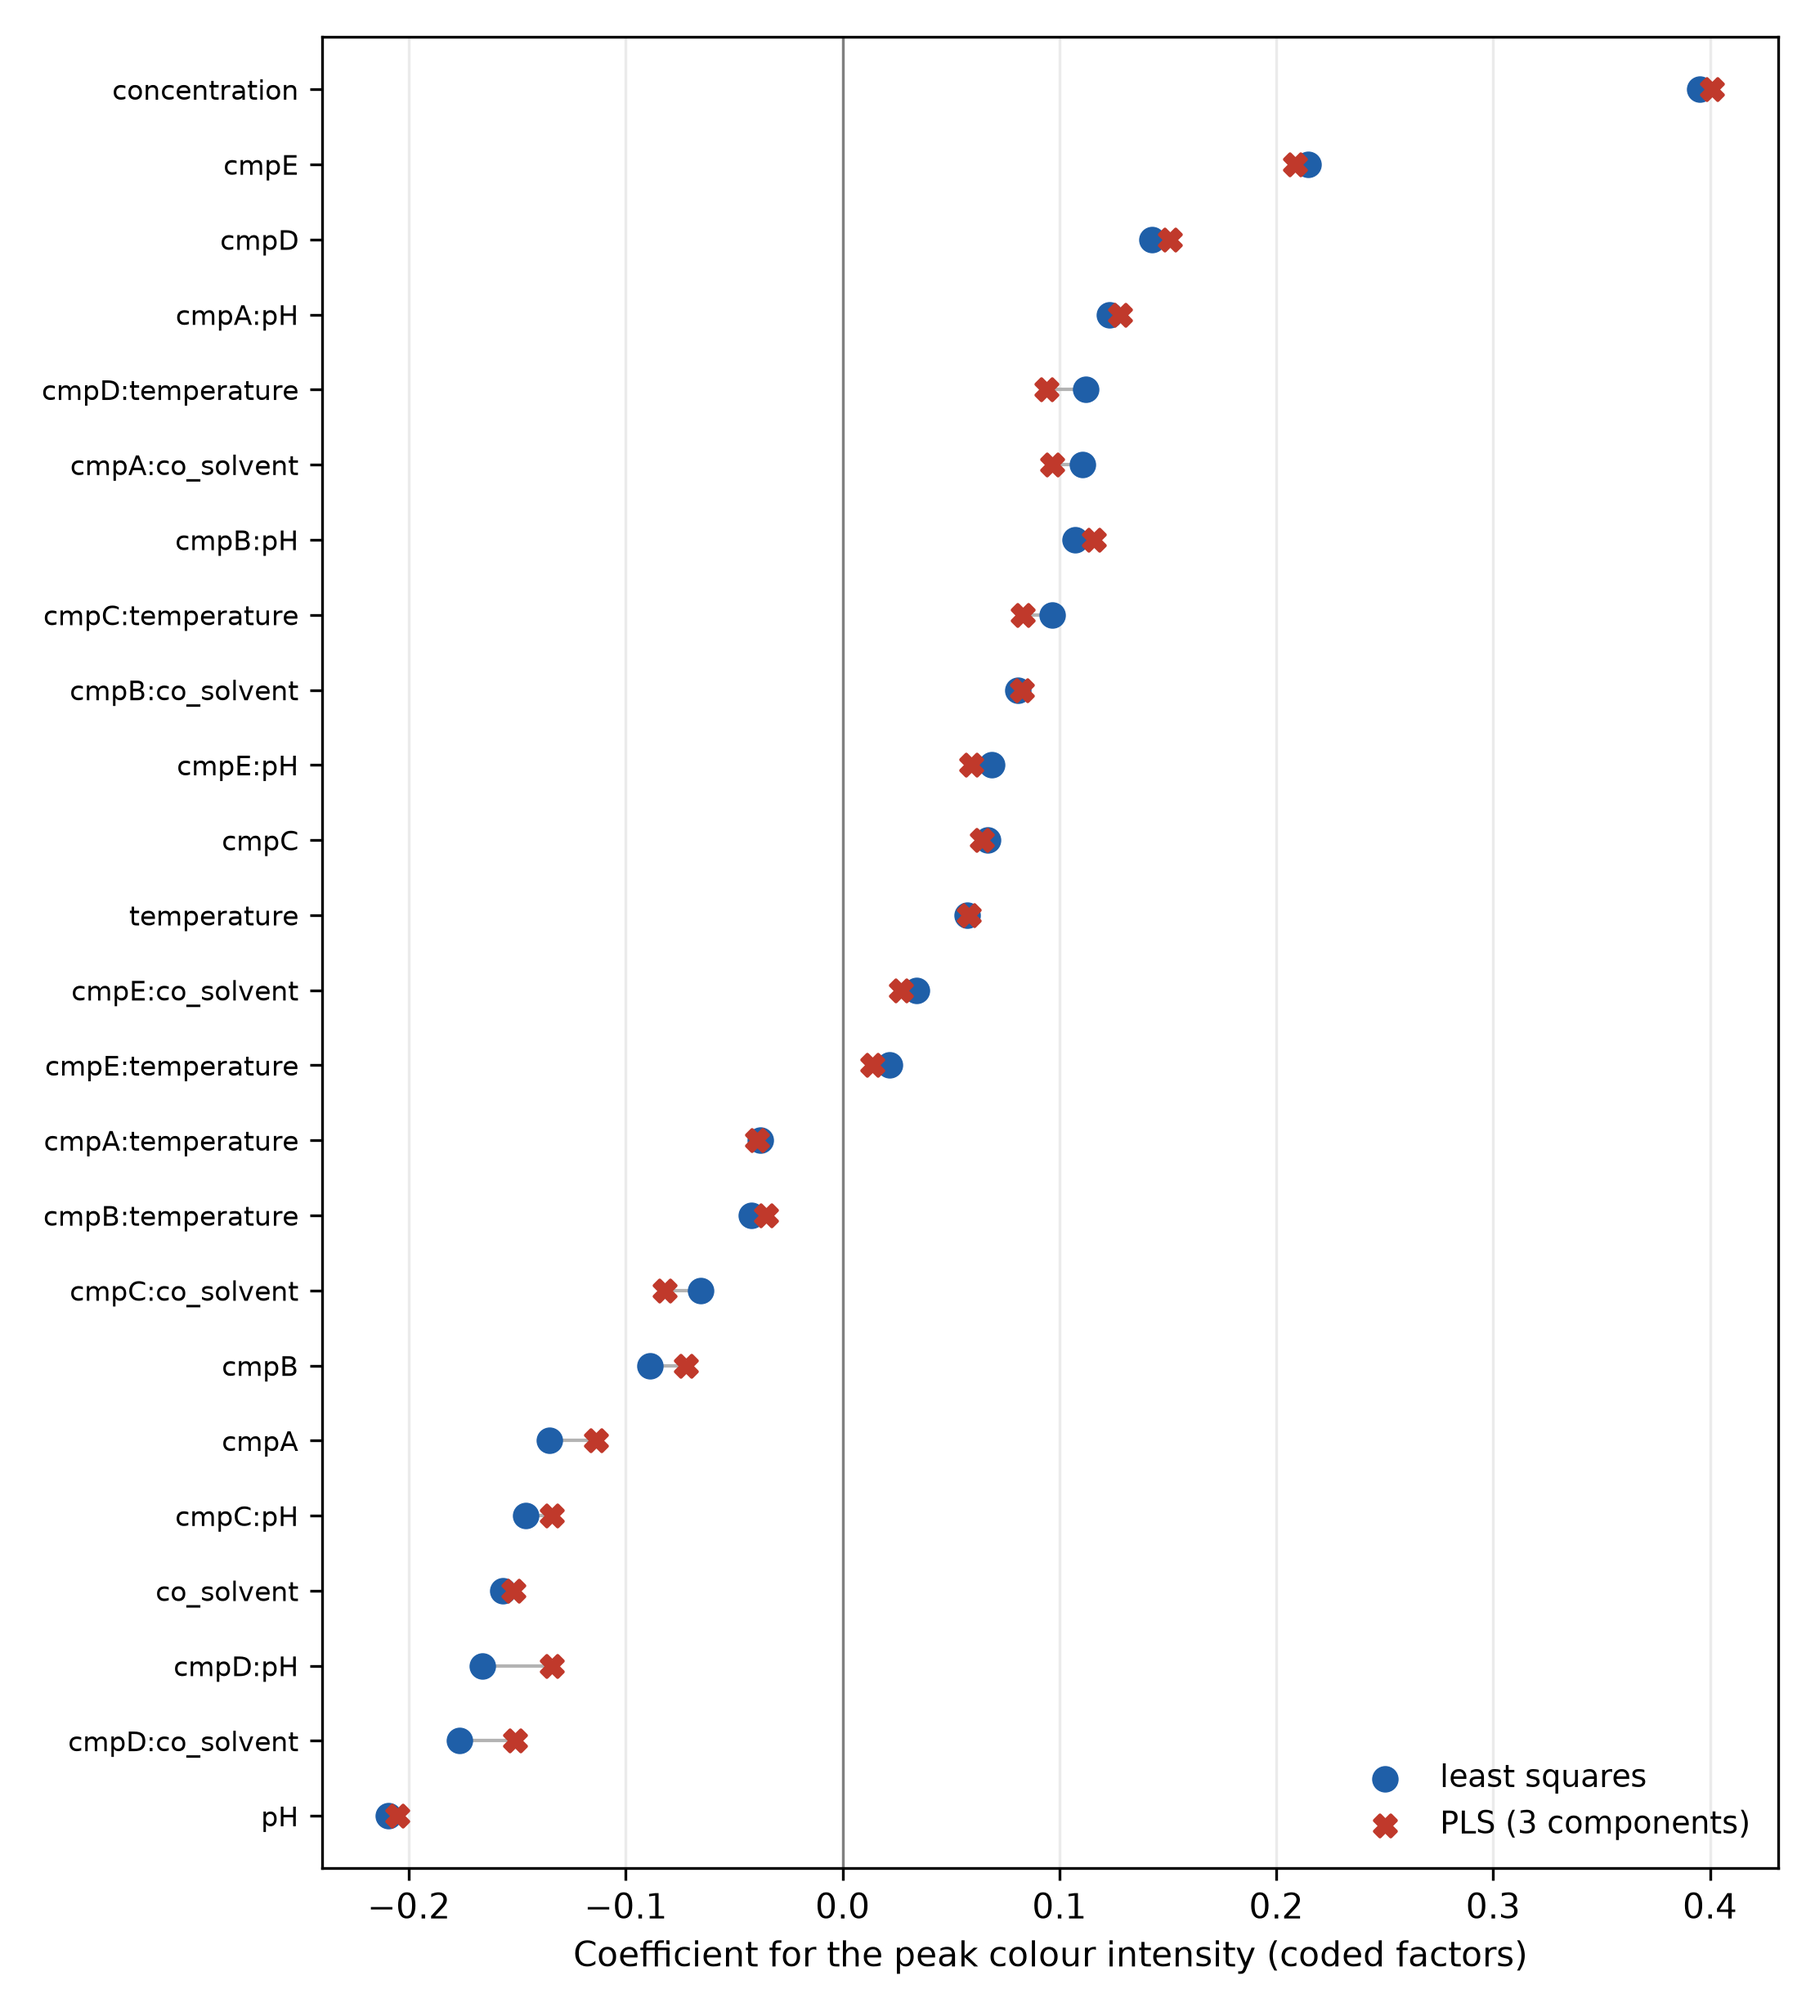
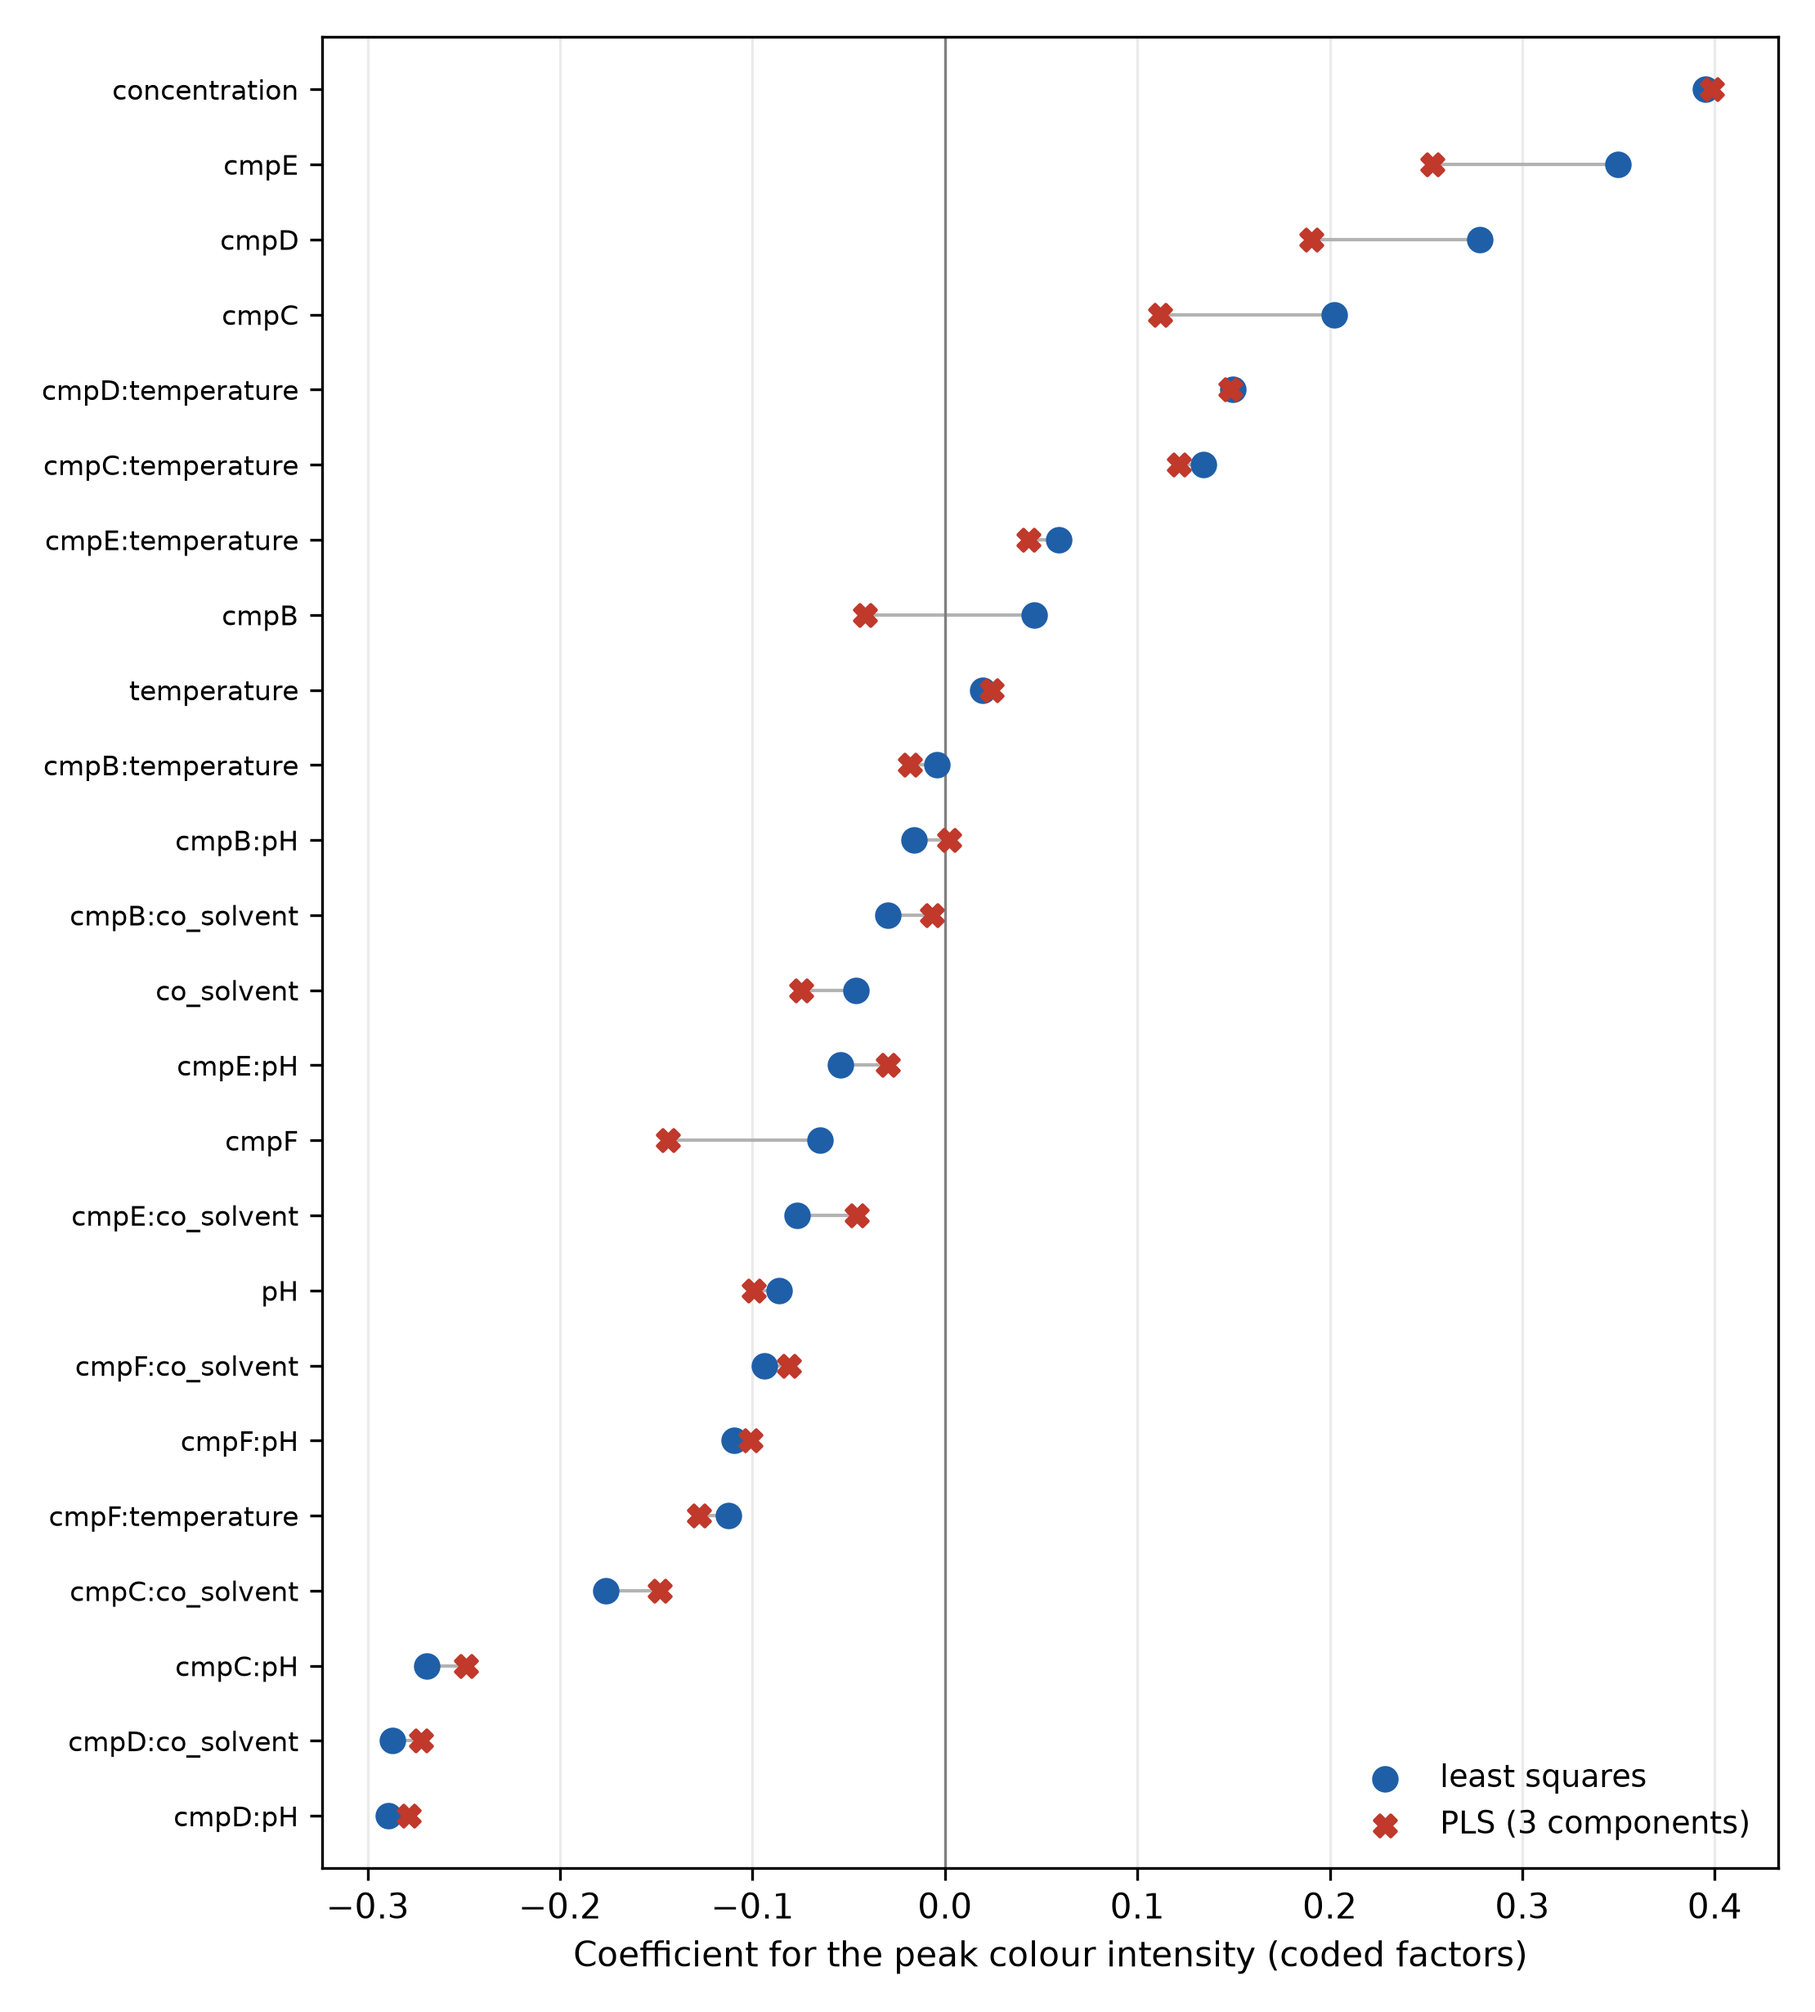
Redraw coefficient comparison under reference-A coding
Match the chapter's switch to reference coding (C(compound, Treatment)). The
compound terms are now differences from A, and the three-component PLS visibly
shrinks those compound-vs-A differences toward zero, which the reference coding
makes the clearest feature of the comparison.

Claude-Session: https://claude.ai/code/session_01TvUM1DPgi2S3JFLjRJTJWj

diff --git a/doe/colour-coefficient-comparison.py b/doe/colour-coefficient-comparison.py
@@ -23,8 +23,8 @@ adf = design.design[["compound"] + cont].copy()
 adf["compound"] = adf["compound"].astype(str)
 adf["peak"] = curves.max(axis=1).to_numpy()
 
-rhs = ("C(compound, Sum)*co_solvent + C(compound, Sum)*pH "
-       "+ C(compound, Sum)*temperature + concentration")
+rhs = ("C(compound, Treatment)*co_solvent + C(compound, Treatment)*pH "
+       "+ C(compound, Treatment)*temperature + concentration")
 ols = analyze_experiment(adf, response_column="peak", model="peak ~ " + rhs,
                          analysis_type=["coefficients"])["coefficients"]
 ols = {c["term"]: c["coefficient"] for c in ols}
@@ -35,7 +35,7 @@ beta = np.asarray(pls.beta_coefficients_).ravel()
 
 
 def short(term):
-    return term.replace("C(compound, Sum)[S.", "cmp").replace("]", "")
+    return term.replace("C(compound, Treatment)[T.", "cmp").replace("]", "")
 
 
 coef = pd.DataFrame({"term": [short(c) for c in X_int.columns],
